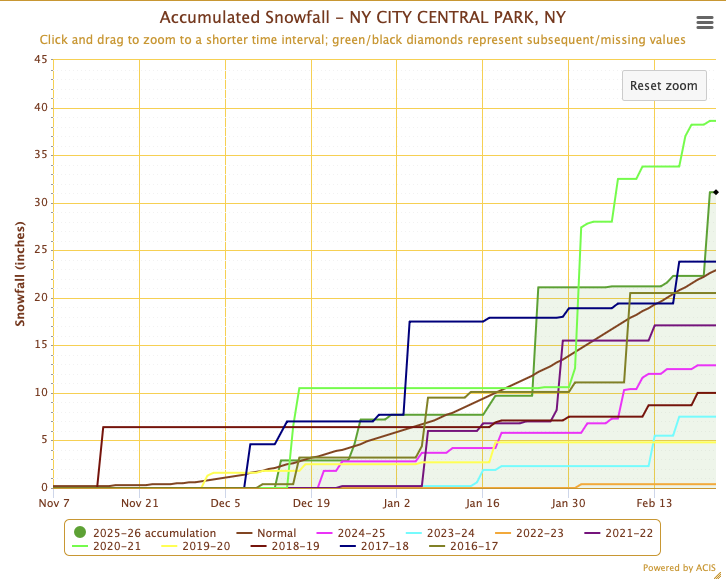
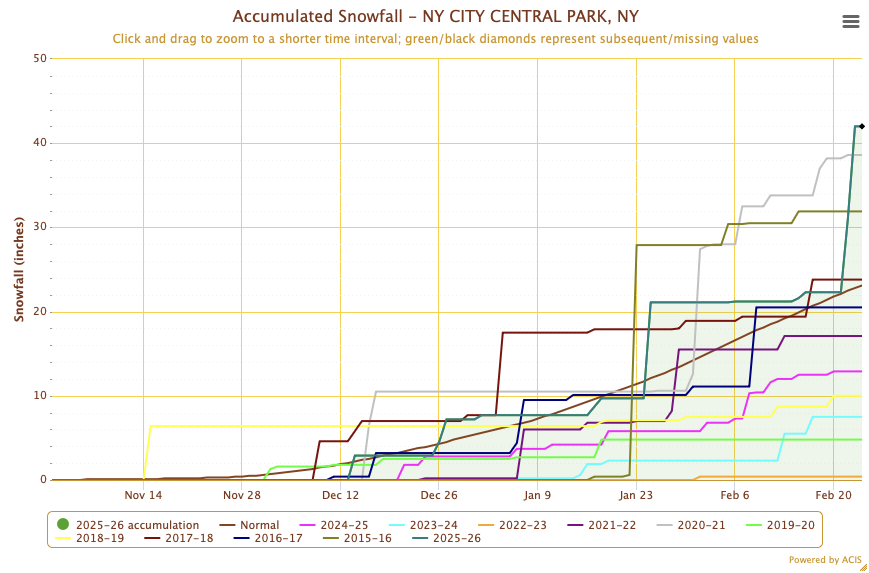
Updated blog post and fixed scrolling to specific post

diff --git a/pages/blog.py b/pages/blog.py
@@ -1,6 +1,8 @@
 import dash
-from dash import html, dcc
+from dash import html, dcc, Input, Output
 import dash_bootstrap_components as dbc
+import pandas as pd
+import os
 import plotly.express as px
 
 dash.register_page(__name__, title='Blog | Climate Becky', image='assets/images/snow_forecast.png')
@@ -10,6 +12,40 @@ dash.register_page(__name__, title='Blog | Climate Becky', image='assets/images/
 # - {"text": "Your paragraph..."}
 # - {"image": "assets/filename.png", "caption": "Optional caption"}
 # - {"graph": {data...}}
+
+current_dir = os.path.dirname(os.path.abspath(__file__))
+records_csv = os.path.join(current_dir, '..', 'data', 'snow_records_202602.csv')
+
+try:
+    df_records = pd.read_csv(records_csv)
+    
+    # 2. Build the interactive map
+    fig_records = px.scatter_mapbox(
+        df_records,
+        lat="latitude",
+        lon="longitude",
+        color="snowfall",
+        size="snowfall",
+        hover_name="Station Name",
+        hover_data={
+            "latitude": False, 
+            "longitude": False,
+            "snowfall": True,
+            "years in record": True, 
+            "Station Type": True
+        },
+        color_continuous_scale=px.colors.diverging.Portland, # A nice snow-themed color scale
+        size_max=20,
+        zoom=5,
+        center={"lat": 40.5, "lon": -73.0}, # Centers roughly over New England (based on your data)
+        mapbox_style="carto-positron",
+        title="Record Tied/Broken Storm Totals (Feb 2026)"
+    )
+    fig_records.update_layout(margin={"r":0,"t":40,"l":0,"b":0})
+
+except FileNotFoundError:
+    # Fallback if the file is missing
+    fig_records = px.scatter(title="Data File Not Found")
 
 # --- 1. DATA WITH ANCHOR IDs ---
 blog_posts = [
@@ -33,17 +69,19 @@ blog_posts = [
     {
         "id": "noreaster-feb-2026",  # <--- NEW: Unique ID for linking
         "title": "Epic Nor'easter Brings Record Snowfall to the Northeast",
-        "date": "February 23, 2026",
+        "date": "February 24, 2026",
         "tags": ["Snowfall", "Winter Storm"],
         "content": [
             {"image": "assets/images/northeast_satellite.jpg", "caption": "GOES-19 snapshot of the winter storm on the morning of February 23, 2026. Satellite imagery courtesy of NOAA and CSU/CIRA."},
-            {"text": "A major winter storm, named Winter Storm Hernando by the Weather Channel, has blanketed much of the Northeast with heavy snow and strong winds. While nor'easters are common in this region, this storm is likely to go down in the record books once the final totals are tallied."},
-            {"text": "The Community Collaborative Rain, Hail, and Snow Network (CoCoRaHS) is a fantastic resource for mapping a high density of snowfall observations for this event. As of Monday morning (February 23), snow totals over 1 foot extended from Delaware to Maine. 24-hour totals ranged between 15 and 25 inches for parts of New Jersey, New York, Connecticut, and Rhode Island. Weekly totals (which capture the bulk of the event through Monday morning) have exceed 2 feet in some locations."},
-            {"image": "assets/images/cocorahs_snowfall.png", "caption": "Accumulated snowfall observed over northeast from February 16 - February 23, 2026. Map courtesy of CoCoRaHS."},
-            {"text": "Snow continued to accumulate through Monday, and additional snowfall is expected through Tuesday. While totals aren't final yet, confirmation of a broken record has already been reported in Rhode Island. As of 1pm local time, the airport in Providence, RI had received 32.8\" of snow, breaking the record of 28.6\" set during the Blizzard of 1978."},
-            {"text": "New York City has seen its fair share from this storm as well. On top of an already snowy winter, Central Park has received over 30 inches for the season, beating out 9 of the last 10 years."},
-            {"image": "assets/images/nyc_accum.png", "caption": "Daily snowfall accumulation at Central Park COOP station since November 2025 through February 23, 2026. Average accumulation shown in brown line, and most recent 10 seasons also plotted. Data and graph courtesy of ACIS."},
-            {"text": "The persistent weather pattern that has locked the western U.S. in a ridge for much of the winter has also contributed to the cold and snow experienced in the northeast. The first day of climatological spring (March 1) will bring a close to the winter season, with the west finishing warmer than average and the east colder than average. That pattern will probably be obvious in the seasonal snowfall totals as well."},
+            {"text": "A major winter storm, named Hernando by the Weather Channel, blanketed much of the Northeast with heavy snow and strong winds. While nor'easters are common in the region, this storm is likely to go down in the record books once the final totals are official."},
+            {"text": "Storm totals for the 48 hours preceding Tuesday monring (February 24), show widespread areas along the northeast coast from Delaware to Maine receiving over a foot of snow. Forty observers reported over 30 inches of snow."},
+            {"image": "assets/images/ne_snow_totals.png", "caption": "Accumulated snowfall reports over northeast from February 22 - February 24, 2026. Map courtesy of the National Weather Service."},
+            {"text": "Official reports of a broken record was reported in Rhode Island by the National Weather Service (NWS). By Monday evening, the airport in Providence, RI had received over 37 inches of snow, breaking the record of 28.6\" set during the Blizzard of 1978. Quite the feat, considering the station's long history of snowfall records dating back to 1932. In the map below, explore the other storm total records that were tied or broken, 21 in total."},
+            {"figure": fig_records},
+            {"text": "New York City has seen its fair share from this storm as well. A NWS COOP station near Islip on Long Island has now seen its snowiest February on record (reporting since 1963). On top of an already snowy winter, Central Park has received 42 inches for the season, beating out the last 10 years."},
+            {"image": "assets/images/islip_monthly_snow.png", "caption": "February monthly snowfall totals over time at Islip, NY. Data and graph courtesy of ACIS."},
+            {"image": "assets/images/nyc_accum.png", "caption": "Daily snowfall accumulation at Central Park COOP station since November 2025 through February 23, 2026 (green shaded). Average accumulation shown in brown line, and most recent 10 seasons also plotted. Data and graph courtesy of ACIS."},
+            {"text": "The persistent weather pattern that has locked the western U.S. in a ridge for much of the winter has also contributed to the active weather pattern in the northeast. The first day of climatological spring (March 1) will bring a close to the winter season, with the west finishing warmer than average and the east colder than average. That pattern will be evident in the seasonal snowfall totals as well."},
             {"text": "Check out my new snowfall dashboard, which shows monthly snowfall totals and accumulations for this season compared to average. For example, Loveland (my city) typically sees about 32\" of snow by the end of February, with 8\" of that just from February alone. This season, we've gotten a whopping 10.7 inches total. By comparison, Atlantic City, NJ usually gets about 17 inches annually, and they're already over 16 inches. Search for your area to see how you're doing compared to average!"},
             {"button": "Launch Snowfall Dashboard", "link": "/snow_dashboard"},
             {"image": "assets/images/loveland_snow.png", "caption": "Monthly snowfall totals for Loveland, CO for the 2025-2026 season compared to average. Data and graph courtesy of ACIS."},     
@@ -126,6 +164,14 @@ def make_climate_post(post):
                     className="text-center mb-4"    # Centers the button in the post
                 )
             )
+        elif "figure" in block:
+            post_children.append(
+                dcc.Graph(
+                    figure=block["figure"], 
+                    className="shadow-sm border rounded mb-4",
+                    config={"scrollZoom": True} # Lets users zoom the map with their mouse!
+                )
+            )
 
     # Add Share Buttons at the bottom of the content list
     post_children.append(make_share_buttons(post["title"], post["id"]))
@@ -193,6 +239,9 @@ def make_share_buttons(post_title, post_id):
 # --- 5. LAYOUT ---
 layout = dbc.Container(
     [
+        dcc.Location(id="blog-url", refresh=False),
+        html.Div(id="scroll-dummy"),        
+
         dbc.Row(
             [
                 # Left Column: The Blog Feed (Width 8)
@@ -215,5 +264,30 @@ layout = dbc.Container(
             ]
         )
     ],
+    fluid=True,
     className="py-5"
+)
+
+# --- AUTO-SCROLL CALLBACK ---
+# This forces the browser to scroll to the #id after the page finishes loading
+dash.clientside_callback(
+    """
+    function(url) {
+        // Check if there is a #hash in the URL
+        if (window.location.hash) {
+            // Wait 500 milliseconds for Dash to render the blog posts
+            setTimeout(function() {
+                // Find the element with that ID (removing the '#' symbol)
+                var element = document.getElementById(window.location.hash.substring(1));
+                if (element) {
+                    // Scroll it into view smoothly
+                    element.scrollIntoView({behavior: 'smooth', block: 'start'});
+                }
+            }, 500); 
+        }
+        return window.dash_clientside.no_update;
+    }
+    """,
+    Output("scroll-dummy", "children"), # We just need a dummy output
+    Input("blog-url", "href")           # Triggers whenever the URL changes
 )

diff --git a/pages/home.py b/pages/home.py
@@ -89,11 +89,11 @@ updates_section = dbc.Row(
                                 html.Div(
                                     [
                                         html.H5("Epic Nor'easter Brings Record Snowfall to the Northeast", className="mb-1"),
-                                        html.Small("Feb 23, 2026", className="text-muted"),
+                                        html.Small("Feb 24, 2026", className="text-muted"),
                                     ],
                                     className="d-flex w-100 justify-content-between",
                                 ),
-                                html.P("A look at the record-breaking snowfall from a major winter storm in the Northeast.", className="mb-1 text-muted small"),
+                                html.P("How many stations broke or tied records for most snowfall in a single storm?", className="mb-1 text-muted small"),
                             ],
                             action=True,
                             href="/blog#noreaster-feb-2026",
